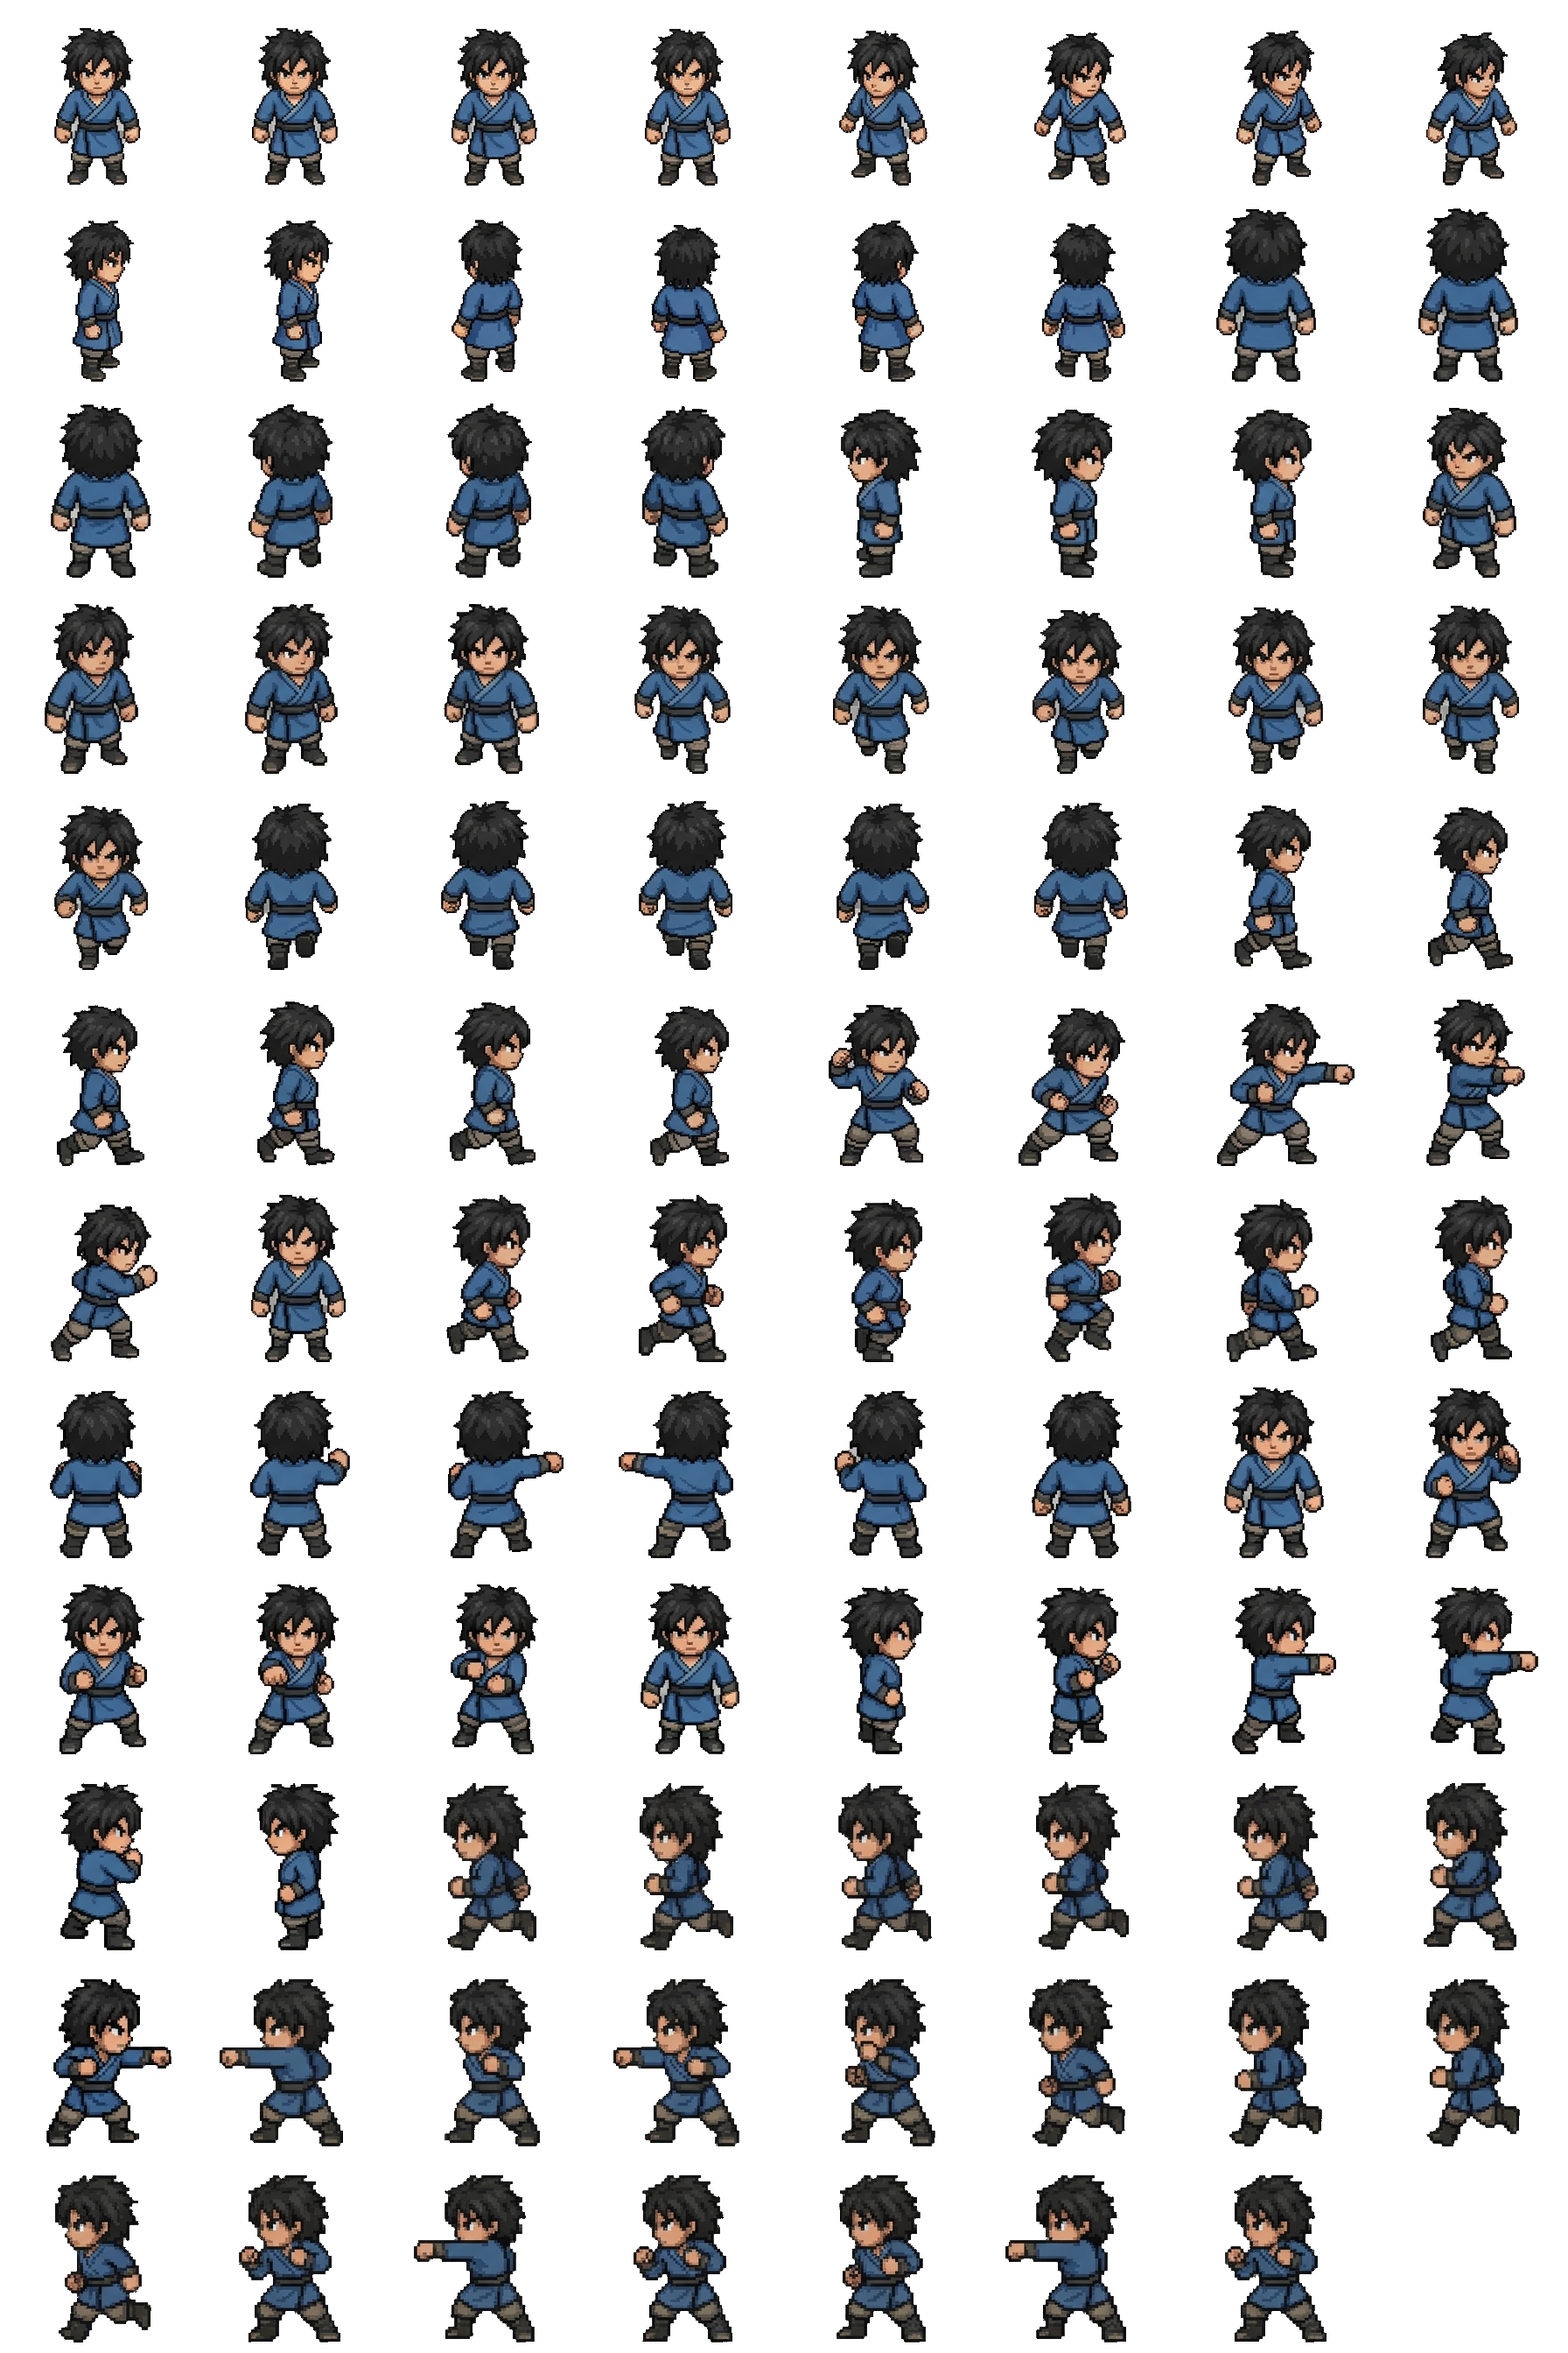
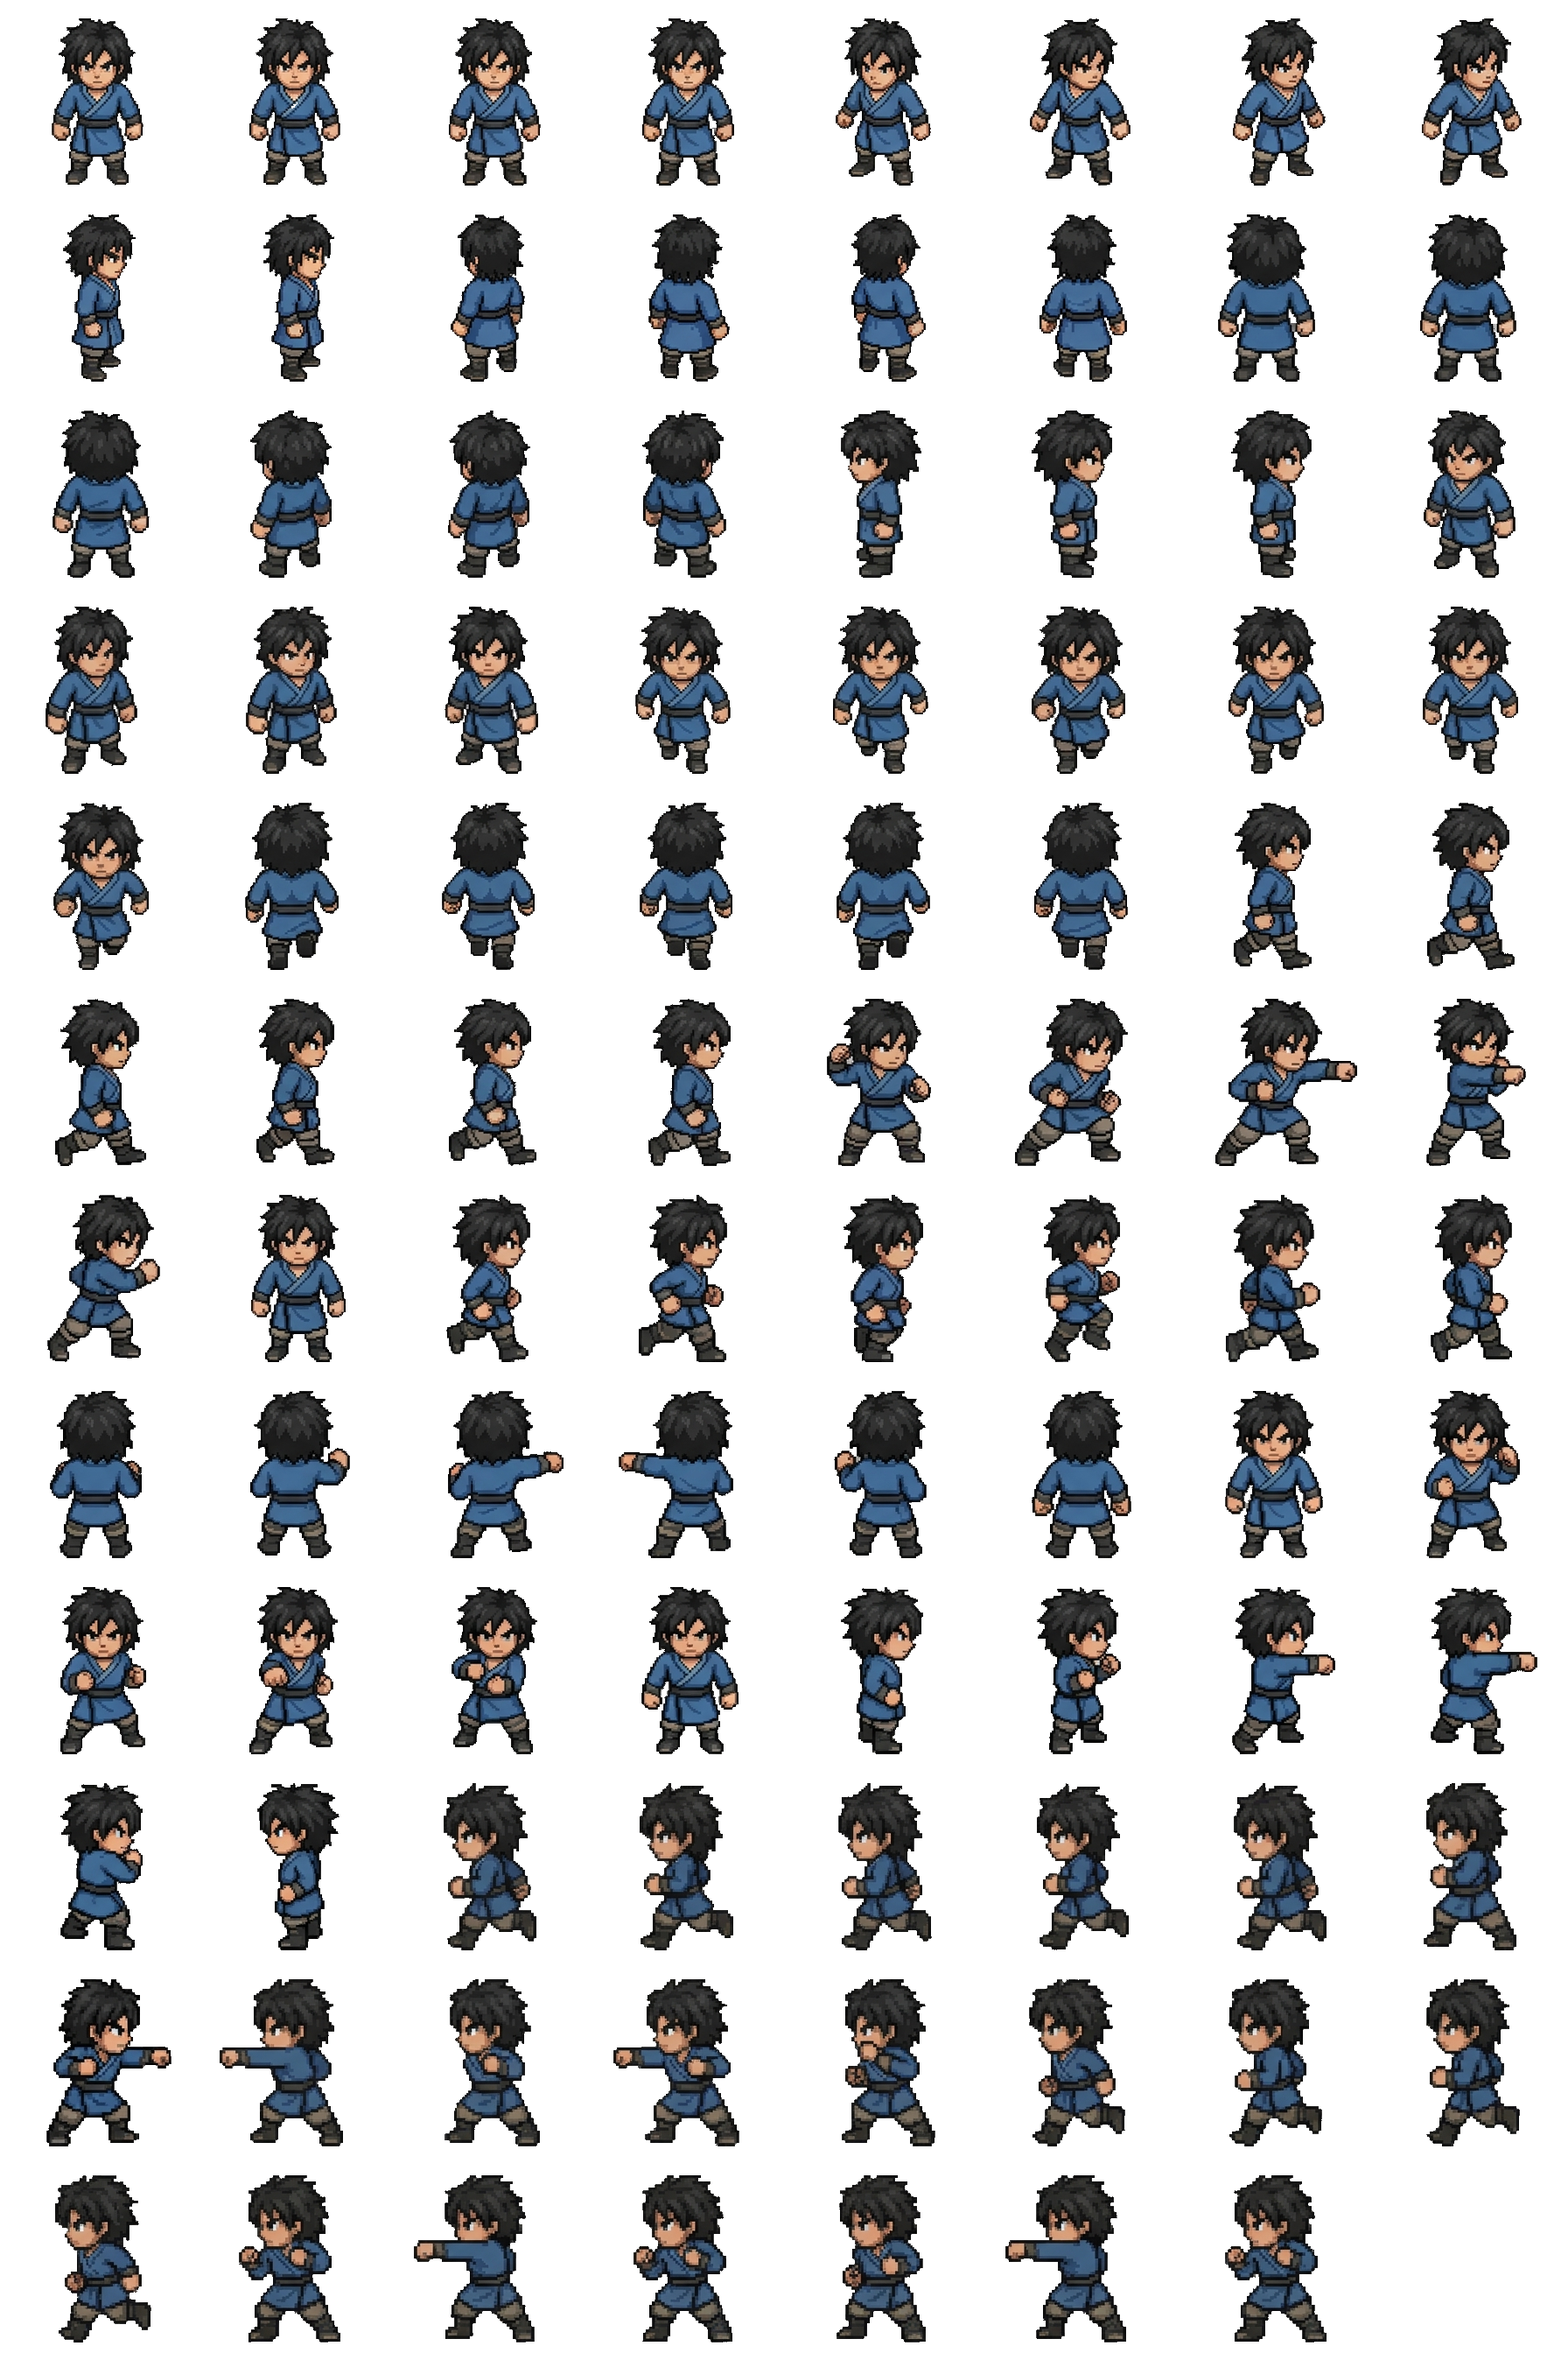
Movement working prefect and also attack working prefect, now to implement levitation

diff --git a/lib/game/components/player.dart b/lib/game/components/player.dart
@@ -9,11 +9,11 @@ enum Facing { south, north, east, west }
 
 class Player extends PositionComponent with HasGameReference {
   Player({required Vector2 position})
-      : super(
-          position: position,
-          size: Vector2.all(GameConfig.playerSize),
-          anchor: Anchor.center,
-        );
+    : super(
+        position: position,
+        size: Vector2.all(GameConfig.playerSize),
+        anchor: Anchor.center,
+      );
 
   /// Normalized direction the player should move.
   final Vector2 moveDirection = Vector2.zero();
@@ -28,23 +28,35 @@ class Player extends PositionComponent with HasGameReference {
   static const _mergedFrames = _Frames(
     idleFront: [0, 1, 2, 3],
     idleBack: [24, 25, 26, 27],
-    idleRight: [12, 13, 14, 15],       
-    idleLeft: [12, 13, 14, 15],        
+    idleRight: [12, 13, 14, 15],
+    idleLeft: [12, 13, 14, 15],
     runFront: [48, 49, 50, 51, 52, 53],
     runBack: [54, 55, 56, 57, 58, 59],
     runRight: [60, 61, 62, 63, 64, 65],
-    runLeft: [60, 61, 62, 63, 64, 65],  
+    runLeft: [60, 61, 62, 63, 64, 65],
+    attackFront: [62, 63, 64, 65, 66, 67],
+    attackBack: [56, 57, 58, 59, 60, 61],
+    attackRight: [68, 69, 70, 71, 72, 73],
+    attackLeft: [79, 80, 81, 82, 83, 84],
   );
 
   static const _dedupFrames = _Frames(
     idleFront: [0, 1, 2, 3],
     idleBack: [14, 15, 16, 15],
     idleRight: [8, 8, 9, 9],
-    idleLeft: [8, 8, 9, 9],             
+    idleLeft: [8, 8, 9, 9],
     runFront: [27, 28, 29, 30, 31, 32],
     runBack: [33, 34, 35, 36, 35, 37],
-    runRight: [55, 53, 52, 51],
-    runLeft: [50,51,52,53,54,55], 
+    //spin is 19,20,21
+    //how to take a right step 39
+    //section 3 ends in 49
+    runRight: [55, 52, 53, 51],
+    runLeft: [50, 51, 52, 53, 54, 55],
+    attackFront: [62, 63, 64, 65, 66, 67],
+    attackBack: [56, 57, 58, 59, 60, 61],
+    attackRight: [72, 46, 47, 48, 68, 46],
+    // attackRight: [68, 69, 70, 71, 72],
+    attackLeft: [82, 48, 46,  80, 47, 45],
   );
 
   // ── Animations ─────────────────────────────────────────────────────
@@ -56,6 +68,10 @@ class Player extends PositionComponent with HasGameReference {
   late final SpriteAnimation _runBack;
   late final SpriteAnimation _runRight;
   late final SpriteAnimation _runLeft;
+  late final SpriteAnimation _attackFront;
+  late final SpriteAnimation _attackBack;
+  late final SpriteAnimation _attackRight;
+  late final SpriteAnimation _attackLeft;
 
   late SpriteAnimationTicker _ticker;
   SpriteAnimation? _currentAnimation;
@@ -63,14 +79,41 @@ class Player extends PositionComponent with HasGameReference {
 
   static const double _artScale = 1.4;
 
+  bool _isAttacking = false;
+
+  void attack() {
+    if (_isAttacking) return;
+
+    _isAttacking = true;
+
+    // Pick attack animation based on current direction
+    final attackAnim = switch (_facing) {
+      Facing.south => _attackFront,
+      Facing.north => _attackBack,
+      Facing.east => _attackRight,
+      Facing.west => _attackLeft,
+    };
+
+    _setAnimation(attackAnim, loop: false);
+
+    // Reset attacking state once the animation finishes
+    _ticker.completed.then((_) {
+      _isAttacking = false;
+    });
+  }
+
   @override
   Future<void> onLoad() async {
-    final img = await game.images.load('player/PC/CHARACTER_1_.png');
+    final img = await game.images.load('player/PC/CHARACTER_1.png');
     final sheet = SpriteSheet(image: img, srcSize: Vector2.all(_cellSize));
 
     final f = _useDedupSheet ? _dedupFrames : _mergedFrames;
 
-    SpriteAnimation fromIndices(List<int> indices, {double step = 0.12}) {
+    SpriteAnimation fromIndices(
+      List<int> indices, {
+      double step = 0.12,
+      bool loop = true,
+    }) {
       return SpriteAnimation(
         indices
             .map(
@@ -80,23 +123,29 @@ class Player extends PositionComponent with HasGameReference {
               ),
             )
             .toList(),
+        loop: loop,
       );
     }
 
     _idleFront = fromIndices(f.idleFront, step: 0.4);
-    _idleBack  = fromIndices(f.idleBack,  step: 0.4);
+    _idleBack = fromIndices(f.idleBack, step: 0.4);
     _idleRight = fromIndices(f.idleRight, step: 0.4);
-    _idleLeft  = fromIndices(f.idleLeft,  step: 0.4);
+    _idleLeft = fromIndices(f.idleLeft, step: 0.4);
 
     _runFront = fromIndices(f.runFront, step: 0.1);
-    _runBack  = fromIndices(f.runBack,  step: 0.1);
+    _runBack = fromIndices(f.runBack, step: 0.1);
     _runRight = fromIndices(f.runRight, step: 0.1);
-    _runLeft  = fromIndices(f.runLeft,  step: 0.1);
+    _runLeft = fromIndices(f.runLeft, step: 0.1);
+
+    _attackFront = fromIndices(f.attackFront, step: 0.08, loop: false);
+    _attackBack = fromIndices(f.attackBack, step: 0.08, loop: false);
+    _attackRight = fromIndices(f.attackRight, step: 0.08, loop: false);
+    _attackLeft = fromIndices(f.attackLeft, step: 0.08, loop: false);
 
     _setAnimation(_idleFront);
   }
 
-  void _setAnimation(SpriteAnimation anim) {
+  void _setAnimation(SpriteAnimation anim, {bool loop = true}) {
     if (identical(_currentAnimation, anim)) return;
     _currentAnimation = anim;
     _ticker = anim.createTicker();
@@ -105,6 +154,12 @@ class Player extends PositionComponent with HasGameReference {
   @override
   void update(double dt) {
     super.update(dt);
+
+    // If attacking, update ticker and skip movement animation updates
+    if (_isAttacking) {
+      _ticker.update(dt);
+      return;
+    }
 
     if (moveDirection.length2 > 0) {
       final dir = moveDirection.normalized();
@@ -146,8 +201,6 @@ class Player extends PositionComponent with HasGameReference {
   void render(Canvas canvas) {
     final frame = _ticker.getSprite();
 
-    // If your left-facing frames are actually mirrored, flip when facing west.
-    // If you supplied true left-facing art, set this to false.
     final flipX = _facing == Facing.west;
     final drawSize = size * _artScale;
 
@@ -173,6 +226,10 @@ class _Frames {
     required this.runBack,
     required this.runRight,
     required this.runLeft,
+    required this.attackFront,
+    required this.attackBack,
+    required this.attackRight,
+    required this.attackLeft,
   });
 
   final List<int> idleFront;
@@ -183,4 +240,8 @@ class _Frames {
   final List<int> runBack;
   final List<int> runRight;
   final List<int> runLeft;
+  final List<int> attackFront;
+  final List<int> attackBack;
+  final List<int> attackRight;
+  final List<int> attackLeft;
 }

diff --git a/lib/game/dao_game.dart b/lib/game/dao_game.dart
@@ -8,6 +8,9 @@ import '../models/player_status.dart';
 import 'components/ground.dart';
 import 'components/player.dart';
 import 'worlds/world_definition.dart';
+import 'package:flame/input.dart';
+
+
 
 class DaoGame extends FlameGame with HasCollisionDetection {
   DaoGame({required this.playerStatus, required this.worldDef});
@@ -17,6 +20,7 @@ class DaoGame extends FlameGame with HasCollisionDetection {
 
   late final Player player;
   late final JoystickComponent joystick;
+  late final HudButtonComponent attackButton;
 
   @override
   Color backgroundColor() => worldDef.voidColor;
@@ -58,6 +62,23 @@ class DaoGame extends FlameGame with HasCollisionDetection {
       margin: const EdgeInsets.only(left: 120, bottom: 120),
     );
     camera.viewport.add(joystick);
+
+    // Attack Button setup
+    attackButton = HudButtonComponent(
+      button: CircleComponent(
+        radius: 35,
+        paint: Paint()..color = const Color(0x88FF0000),
+      ),
+      buttonDown: CircleComponent(
+        radius: 35,
+        paint: Paint()..color = const Color(0xFFFF0000),
+      ),
+      margin: const EdgeInsets.only(right: 120, bottom: 120),
+      onPressed: () => player.attack(),
+      
+    );
+
+    camera.viewport.add(attackButton);
 
     debugPrint('Entered ${worldDef.name} as ${playerStatus.name}');
   }
